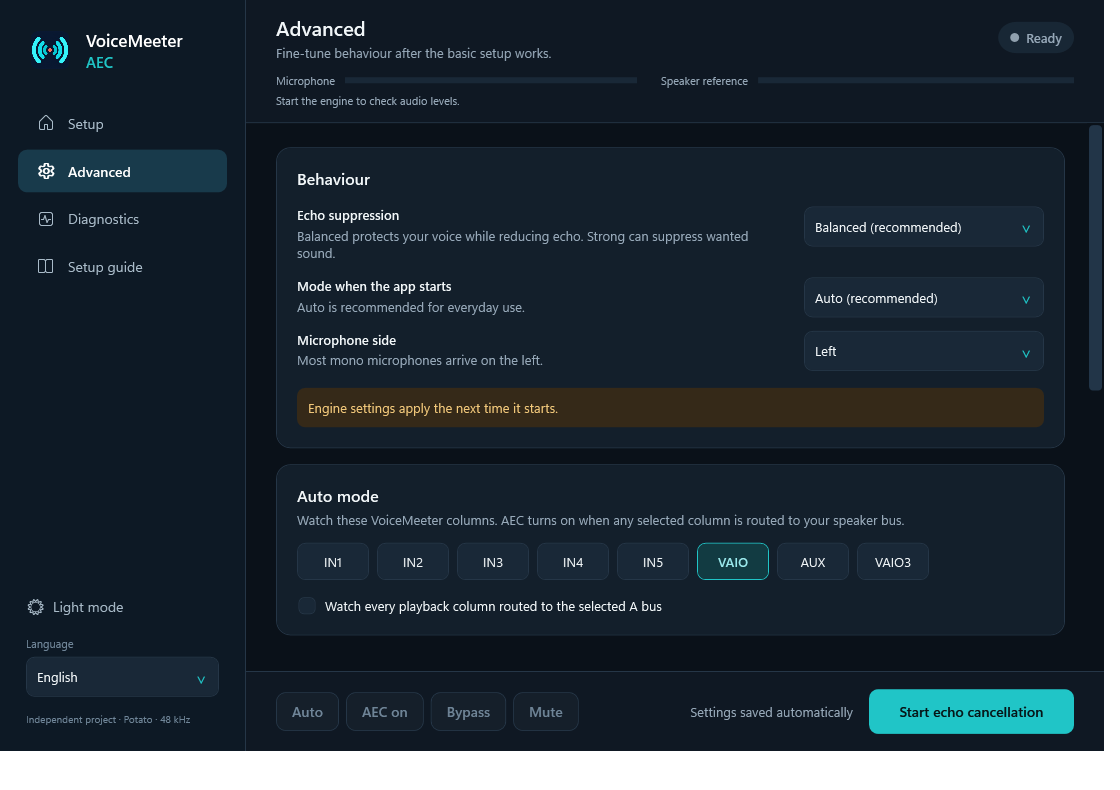
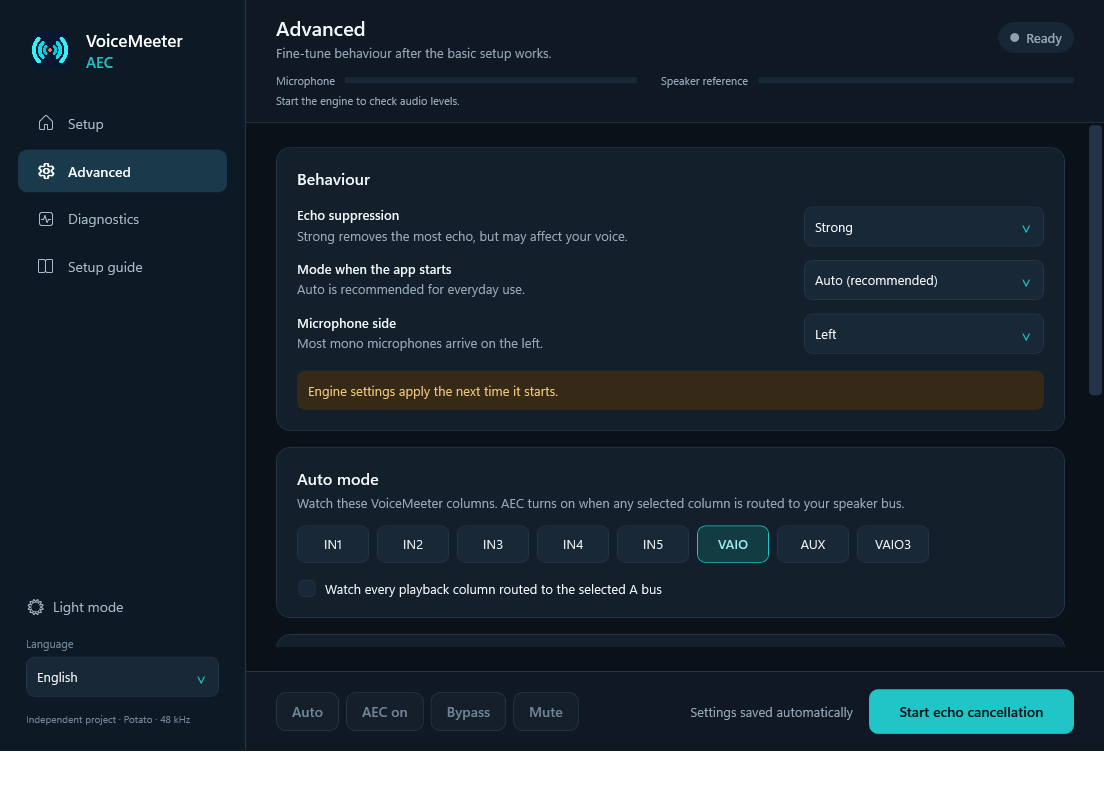
Restore Strong suppression default for 1.2.1

diff --git a/app/MainWindow.xaml b/app/MainWindow.xaml
@@ -240,8 +240,8 @@
                 <Grid Margin="0,17,0,0">
                   <Grid.ColumnDefinitions><ColumnDefinition /><ColumnDefinition Width="240" /></Grid.ColumnDefinitions>
                   <Grid.RowDefinitions><RowDefinition Height="Auto" /><RowDefinition Height="Auto" /><RowDefinition Height="Auto" /></Grid.RowDefinitions>
-                  <StackPanel Margin="0,0,18,16"><TextBlock x:Name="SuppressionLabel" Text="Echo suppression" FontWeight="SemiBold" /><TextBlock x:Name="SuppressionHelp" Text="Balanced protects your voice while reducing echo. Strong can suppress wanted sound." Foreground="{DynamicResource MutedInk}" Margin="0,3,0,0" TextWrapping="Wrap" /></StackPanel>
-                  <ComboBox x:Name="SuppressionBox" Grid.Column="1" Margin="0,0,0,12" VerticalAlignment="Top" SelectedIndex="1" SelectionChanged="SettingChanged"><ComboBoxItem Content="Gentle" Tag="gentle" /><ComboBoxItem Content="Balanced (recommended)" Tag="balanced" /><ComboBoxItem Content="Strong" Tag="strong" /></ComboBox>
+                  <StackPanel Margin="0,0,18,16"><TextBlock x:Name="SuppressionLabel" Text="Echo suppression" FontWeight="SemiBold" /><TextBlock x:Name="SuppressionHelp" Text="Strong removes the most echo, but may affect your voice." Foreground="{DynamicResource MutedInk}" Margin="0,3,0,0" TextWrapping="Wrap" /></StackPanel>
+                  <ComboBox x:Name="SuppressionBox" Grid.Column="1" Margin="0,0,0,12" VerticalAlignment="Top" SelectedIndex="2" SelectionChanged="SettingChanged"><ComboBoxItem Content="Gentle" Tag="gentle" /><ComboBoxItem Content="Balanced" Tag="balanced" /><ComboBoxItem Content="Strong" Tag="strong" /></ComboBox>
                   <StackPanel Grid.Row="1" Margin="0,0,18,16"><TextBlock x:Name="StartModeLabel" Text="Mode when the app starts" FontWeight="SemiBold" /><TextBlock x:Name="StartModeHelp" Text="Auto is recommended for everyday use." Foreground="{DynamicResource MutedInk}" Margin="0,3,0,0" /></StackPanel>
                   <ComboBox x:Name="StartModeBox" Grid.Row="1" Grid.Column="1" Margin="0,0,0,12" VerticalAlignment="Top" SelectedIndex="2" SelectionChanged="SettingChanged"><ComboBoxItem Content="Bypass" Tag="bypass" /><ComboBoxItem Content="AEC always on" Tag="aec" /><ComboBoxItem Content="Auto (recommended)" Tag="auto" /><ComboBoxItem Content="Mute microphone" Tag="mute" /></ComboBox>
                   <StackPanel Grid.Row="2" Margin="0,0,18,0"><TextBlock x:Name="MicSideLabel" Text="Microphone side" FontWeight="SemiBold" /><TextBlock x:Name="MicSideHelp" Text="Most mono microphones arrive on the left." Foreground="{DynamicResource MutedInk}" Margin="0,3,0,0" /></StackPanel>
@@ -293,7 +293,7 @@
                 <Grid.ColumnDefinitions><ColumnDefinition /><ColumnDefinition Width="Auto" /></Grid.ColumnDefinitions>
                 <StackPanel Margin="0,0,24,0">
                   <TextBlock x:Name="UpdatesHeading" Text="Updates" FontSize="16" FontWeight="SemiBold" />
-                  <TextBlock x:Name="UpdateStatusText" Text="Current version 1.2.0" Foreground="{DynamicResource MutedInk}" Margin="0,5,0,11" TextWrapping="Wrap" />
+                  <TextBlock x:Name="UpdateStatusText" Text="Current version 1.2.1" Foreground="{DynamicResource MutedInk}" Margin="0,5,0,11" TextWrapping="Wrap" />
                   <CheckBox x:Name="AutomaticUpdatesBox" Content="Check for updates automatically" Checked="SettingChanged" Unchecked="SettingChanged" />
                   <TextBlock x:Name="AutomaticUpdatesHelp" Text="Checks GitHub Releases once a day. Installation always asks first." Foreground="{DynamicResource MutedInk}" Margin="25,5,0,0" TextWrapping="Wrap" />
                 </StackPanel>

diff --git a/app/MainWindow.xaml.cs b/app/MainWindow.xaml.cs
@@ -415,7 +415,7 @@ public partial class MainWindow : Window
         if (_settings.AutoStrips.Count == 0) _settings.AutoStrips.AddRange(_settings.ReferenceStrips);
         _settings.WatchAllStrips = WatchAllBox.IsChecked == true;
         _settings.MicrophoneSide = SelectedTag(MicSideBox, "left");
-        _settings.Suppression = SelectedTag(SuppressionBox, "balanced");
+        _settings.Suppression = SelectedTag(SuppressionBox, "strong");
         _settings.StartMode = SelectedTag(StartModeBox, "auto");
         _settings.HoldMs = (int)Math.Round(HoldSlider.Value);
         _settings.DelayMs = (int)Math.Round(DelaySlider.Value);
@@ -620,7 +620,7 @@ public partial class MainWindow : Window
         GuideStopRule.Text = T("Before stopping the engine, switch those two PATCH INSERT buttons off.");
         BehaviourHeading.Text = T("Behaviour");
         SuppressionLabel.Text = T("Echo suppression");
-        SuppressionHelp.Text = T("Balanced protects your voice while reducing echo. Strong can suppress wanted sound.");
+        SuppressionHelp.Text = T("Strong removes the most echo, but may affect your voice.");
         StartModeLabel.Text = T("Mode when the app starts");
         StartModeHelp.Text = T("Auto is recommended for everyday use.");
         MicSideLabel.Text = T("Microphone side");
@@ -662,7 +662,7 @@ public partial class MainWindow : Window
 
     private void SetComboLabels()
     {
-        var suppression = new Dictionary<string, string> { ["gentle"] = T("Gentle"), ["balanced"] = T("Balanced (recommended)"), ["strong"] = T("Strong") };
+        var suppression = new Dictionary<string, string> { ["gentle"] = T("Gentle"), ["balanced"] = T("Balanced"), ["strong"] = T("Strong") };
         foreach (ComboBoxItem item in SuppressionBox.Items) item.Content = suppression[item.Tag!.ToString()!];
         var modes = new Dictionary<string, string> { ["bypass"] = "Bypass", ["aec"] = T("AEC always on"), ["auto"] = T("Auto (recommended)"), ["mute"] = T("Mute microphone") };
         foreach (ComboBoxItem item in StartModeBox.Items) item.Content = modes[item.Tag!.ToString()!];
@@ -1006,7 +1006,7 @@ public partial class MainWindow : Window
         if (!upgraded.ReferenceStrips.SequenceEqual([7]) || !multiple.ReferenceStrips.SequenceEqual([6, 7]) ||
             !upgraded.CheckForUpdatesAutomatically || updatesDisabled.CheckForUpdatesAutomatically ||
             upgraded.VoiceMeeterEdition != "auto" || bananaSettings.VoiceMeeterEdition != "banana" ||
-            defaults.Suppression != "balanced" || !defaults.StartEngineWithWindows || startupEngineDisabled.StartEngineWithWindows)
+            defaults.Suppression != "strong" || !defaults.StartEngineWithWindows || startupEngineDisabled.StartEngineWithWindows)
             throw new InvalidOperationException("Saved settings migration is invalid.");
         StartupBox.IsChecked = false;
         UpdateStartupControls();

diff --git a/app/AppSettings.cs b/app/AppSettings.cs
@@ -24,7 +24,7 @@ public sealed class AppSettings
     public List<int> AutoStrips { get; set; } = [6];
     public bool WatchAllStrips { get; set; }
     public string StartMode { get; set; } = "auto";
-    public string Suppression { get; set; } = "balanced";
+    public string Suppression { get; set; } = "strong";
     public int HoldMs { get; set; }
     public int DelayMs { get; set; }
     public bool StartWithWindows { get; set; }
@@ -102,7 +102,7 @@ public sealed class AppSettings
             AutoStrips = strips,
             WatchAllStrips = ReadInt(root, "autoScope", 0) == 1,
             StartMode = mode switch { 0 => "bypass", 1 => "aec", 3 => "mute", _ => "auto" },
-            Suppression = ReadString(root, "suppression", "balanced"),
+            Suppression = ReadString(root, "suppression", "strong"),
             HoldMs = ReadInt(root, "hold", 0),
             DelayMs = ReadInt(root, "delay", 0),
             StartWithWindows = legacyStartupExists,
@@ -144,7 +144,7 @@ public sealed class AppSettings
         AutoStrips = (AutoStrips ?? []).Where(value => value is >= 1 and <= 8).Distinct().Order().ToList();
         if (AutoStrips.Count == 0) AutoStrips.AddRange(ReferenceStrips);
         if (StartMode is not ("bypass" or "aec" or "auto" or "mute")) StartMode = "auto";
-        if (Suppression is not ("gentle" or "balanced" or "strong")) Suppression = "balanced";
+        if (Suppression is not ("gentle" or "balanced" or "strong")) Suppression = "strong";
         HoldMs = Math.Clamp(HoldMs, 0, 250);
         DelayMs = Math.Clamp(DelayMs, 0, 500);
         if (LastUpdateCheckUtc > DateTime.UtcNow.AddDays(1)) LastUpdateCheckUtc = default;

diff --git a/src/main.rs b/src/main.rs
@@ -147,7 +147,7 @@ Does not change PATCH settings. Read GUIDE-EN.md before --run."
         (0, 0, 0, 3, false, 2);
     let mut auto_strips = None;
     let mut edition = Edition::Potato;
-    let mut suppression = ResidualSuppression::Balanced;
+    let mut suppression = ResidualSuppression::Standard;
     let mut i = 0;
     while i < args.len() {
         match args[i].as_str() {

diff --git a/VALIDATION-EN.md b/VALIDATION-EN.md
@@ -1,6 +1,6 @@
-# VoiceMeeter AEC 1.2.0 — validation
+# VoiceMeeter AEC 1.2.1 — validation
 
-[Français](VALIDATION.md) · Version 1.2.0
+[Français](VALIDATION.md) · Version 1.2.1
 
 The automated checks pass for Gentle and Balanced. **Strong deliberately exposes the original, more aggressive suppressor and fails some near-end preservation checks.** Passing synthetic tests does not establish transparent speech or production stability.
 
@@ -11,7 +11,7 @@ The automated checks pass for Gentle and Balanced. **Strong deliberately exposes
 - The real C++ callback calls the Rust engine through FFI for 300 simulated blocks; framing, immediate mute, channel preservation and invalid-index detection pass.
 - Native event checks cover reset, sample-rate change, latency-only notification, cancellation priority and aggregation of active/inactive/unknown Auto routes.
 - A hidden child process receives M/B/A/T/Q through the same anonymous stdin pipe used by the tray. It verifies the actual native control handling, returns diagnostic output and exits gracefully without opening an audio device.
-- English/French desktop checks cover both mixer layouts and channel maps, edition selection, Auto/Balanced defaults, settings migration, mode highlighting, locked audio controls, theme resources, update metadata/checksums, safe archive paths and copy rollback.
+- English/French desktop checks cover both mixer layouts and channel maps, edition selection, Auto/Strong defaults, settings migration, mode highlighting, locked audio controls, theme resources, update metadata/checksums, safe archive paths and copy rollback.
 - New host checks feed actual status records through the parser, reject pre-callback startup messages, exercise native exit code 14 and retry eligibility through a real child process, verify latest requested mode preservation, and rotate small test logs without touching user logs/settings.
 - Update argument round trips preserve all four modes; old updater arguments resume muted. Native reference checks cover Banana without GainLayer, Potato bus gains, muted routes, relative weights, channel mapping, simultaneous loud sources and a smooth transition to zero reference.
 - Release builds remap local compiler paths; public archives are checked for developer account paths, saved settings, shortcuts, logs and build directories.
@@ -40,7 +40,7 @@ Driver reset/resync or a two-second callback stall permits two retries (250 ms, 
 
 Sign-in startup waits for VoiceMeeter and retries selected initial driver failures for up to 90 seconds. This is separate from native recovery. Settings and shortcut tests use an isolated directory; the development machine's startup registration is not modified. The process wrapper uses CreateNoWindow and redirected stdin/stdout/stderr. Normal startup has no console; a direct CLI launch retains one. Diagnostics rotate at approximately 2 MiB plus one previous segment and contain no recorded audio.
 
-The 1.2.0 build and desktop checks open no audio driver and do not change Windows startup registration. Meter telemetry is emitted every 100 ms and excluded from disk logs. Route weights are polled every 200 ms and faded over 10 ms inside the callback using a bounded atomic snapshot. The speaker-reference mix follows routing and gains; downstream EQ, panning, surround downmix and nonlinear speaker effects are not reconstructed. These integration checks do not constitute live acoustic validation of the new reference weighting.
+The 1.2.1 build and desktop checks open no audio driver and do not change Windows startup registration. Meter telemetry is emitted every 100 ms and excluded from disk logs. Route weights are polled every 200 ms and faded over 10 ms inside the callback using a bounded atomic snapshot. The speaker-reference mix follows routing and gains; downstream EQ, panning, surround downmix and nonlinear speaker effects are not reconstructed. These integration checks do not constitute live acoustic validation of the new reference weighting.
 
 ## Remaining real-world validation
 

diff --git a/VALIDATION.md b/VALIDATION.md
@@ -1,6 +1,6 @@
-# VoiceMeeter AEC 1.2.0 — validation
+# VoiceMeeter AEC 1.2.1 — validation
 
-[English](VALIDATION-EN.md) · Version 1.2.0
+[English](VALIDATION-EN.md) · Version 1.2.1
 
 Les contrôles passent pour Douce et Équilibrée. **Forte expose la suppression d'origine, plus agressive, et échoue à certains critères de préservation du signal proche.** Des tests synthétiques réussis ne prouvent ni une voix transparente ni une stabilité de production.
 
@@ -11,14 +11,14 @@ Les contrôles passent pour Douce et Équilibrée. **Forte expose la suppression
 - Callback C++ réel vers moteur Rust via FFI, sur 300 blocs simulés : framing, silence immédiat, préservation et détection d'indice invalide.
 - Événements natifs : reset, changement de fréquence, notification de latence seule, priorité de l'arrêt et combinaison des routes Auto actives/inactives/inconnues.
 - Processus caché recevant M/B/A/T/Q par le même pipe que le menu de notification. Contrôles natifs réels, diagnostics et arrêt propre vérifiés, sans périphérique audio.
-- Interface anglaise/française : dispositions et canaux, édition, valeurs par défaut Auto/Équilibrée, migration, modes sélectionnés, verrouillage audio, thèmes, métadonnées de mise à jour, sommes de contrôle, chemins sûrs et restauration après échec de copie.
+- Interface anglaise/française : dispositions et canaux, édition, valeurs par défaut Auto/Forte, migration, modes sélectionnés, verrouillage audio, thèmes, métadonnées de mise à jour, sommes de contrôle, chemins sûrs et restauration après échec de copie.
 - Nouveaux tests du lanceur : analyse des états réels, refus des messages prématurés de démarrage, code natif 14 et éligibilité à la reprise via un processus enfant, conservation du dernier mode demandé et rotation de journaux temporaires.
 - Transmission des quatre modes lors des mises à jour ; ancien lanceur sans mode repris en Silence. Tests natifs de Banana sans GainLayer, gains Potato, routes muettes, pondérations relatives, correspondance des canaux, sources fortes simultanées et fondu vers une référence nulle.
 - Les chemins locaux du compilateur sont remappés ; les archives publiques sont contrôlées pour exclure comptes locaux, réglages, raccourcis, journaux personnels et dossiers de compilation.
 
 ## Mesures audio
 
-La compilation et les tests 1.2.0 n'ouvrent aucun pilote audio et ne modifient pas le démarrage Windows. Les niveaux sont transmis toutes les 100 ms sans être stockés dans le journal. Le routage est lu toutes les 200 ms, puis les pondérations suivent un fondu de 10 ms. Le mix suit les routes et les gains ; l'EQ, le panoramique, le downmix surround et les effets non linéaires ne sont pas reconstruits. La pondération n'a pas encore fait l'objet d'une validation acoustique réelle.
+La compilation et les tests 1.2.1 n'ouvrent aucun pilote audio et ne modifient pas le démarrage Windows. Les niveaux sont transmis toutes les 100 ms sans être stockés dans le journal. Le routage est lu toutes les 200 ms, puis les pondérations suivent un fondu de 10 ms. Le mix suit les routes et les gains ; l'EQ, le panoramique, le downmix surround et les effets non linéaires ne sont pas reconstruits. La pondération n'a pas encore fait l'objet d'une validation acoustique réelle.
 
 Chaque scénario déterministe dure 48 secondes à 48 kHz : deux références indépendantes de bruit coloré, trois trajets d'écho filtrés, signal proche entre 20 et 30 secondes, délai acoustique passant de 50 à 90 ms à 30 secondes, référence retirée à 46 secondes. Le signal proche utilise des harmoniques modulées ou du bruit coloré indépendant, pas de voix humaine enregistrée. D'autres graines utilisent des niveaux proches à 0,5x et 1,5x.
 

diff --git a/PUBLISHING.md b/PUBLISHING.md
@@ -4,7 +4,7 @@ The Source archive is the repository content. Extract it and commit the files in
 
 `VoiceMeeter-AEC-Setup.exe` is the recommended Windows download. It performs a per-user installation without elevation, adds a Start menu shortcut and creates a standard uninstall entry. The Windows-x64 archive remains the portable package and the payload used by automatic updates. It contains the self-contained desktop app, the audio engine and grouped licence notices. The separate Source archive contains the corresponding source, installer definition and vendored Rust dependencies. Attach all three packages and their SHA-256 files to the GitHub release. Do not commit executable build outputs to the source repository.
 
-Run Build.cmd on Windows x64 with Rust, Visual C++, Windows SDK and the .NET 8 SDK or newer installed. Install Inno Setup 7 before packaging, or provide its compiler path through `-InstallerCompiler` or `INNO_SETUP_COMPILER`. The build remaps local source paths out of the native engine, publishes a self-contained x64 desktop app, runs unit and synthetic audio checks for Gentle/Balanced, validates the bilingual interface, and renders the README screenshot without opening audio. Balanced is the app default for new setups. Strong remains optional, has documented near-end preservation failures and is not included in the passing quality gate.
+Run Build.cmd on Windows x64 with Rust, Visual C++, Windows SDK and the .NET 8 SDK or newer installed. Install Inno Setup 7 before packaging, or provide its compiler path through `-InstallerCompiler` or `INNO_SETUP_COMPILER`. The build remaps local source paths out of the native engine, publishes a self-contained x64 desktop app, runs unit and synthetic audio checks for Gentle/Balanced, validates the bilingual interface, and renders the README screenshot without opening audio. Strong is the app default for new setups. It has documented near-end preservation failures and is not included in the passing quality gate.
 
 Run `powershell.exe -NoProfile -ExecutionPolicy Bypass -File .\Package.ps1` after a successful build. It creates the installer plus fresh Source and Windows-x64 archives under `dist`, with SHA-256 files. Packaging uses explicit file lists and never reads the user's saved application settings. Existing packages are not overwritten; use a new output directory when repackaging. Keep the generated `VoiceMeeter-AEC-{version}-Windows-x64.zip` name and attach its `.sha256` file to the same stable GitHub release: the in-app updater requires that pair. `-SkipInstaller` is available for local portable-only builds.
 

diff --git a/patches/README.md b/patches/README.md
@@ -7,7 +7,7 @@ Local changes made 2026-09-10:
 - `src/config.rs`: add `EchoCanceller::residual_suppression` with `Standard` (upstream default), `Balanced`, and `Gentle` profiles. Version 0.1.3 replaces the earlier `conservative_suppression` boolean.
 - `src/audio_processing_impl.rs`: Gentle uses near-end tuning for both normal and near-end residual suppression, with echo-to-near-end transparent/suppress thresholds 3/6 in LF and HF. Balanced uses 2.25/4.5. Standard retains upstream tuning, exposed as Strong in the application. Apply consistently to mono and detected stereo. Apply the requested transparent-mode setting to stereo too.
 
-VoiceMeeter AEC 1.2.0 defaults to Balanced for new app settings and CLI streams; saved profiles remain unchanged. Gentle preserves 0.1.2 behavior and remains the default for the legacy no-profile synthetic self-test. Profiles apply on engine start and survive driver recovery. The adaptive echo cancellation filter remains active; this is not dry bypass or mixing in the reference. The less aggressive residual suppressor may leave more nonlinear residual echo in situations not covered by the synthetic suite. Thresholds are an experimental application-specific tradeoff, not upstream recommendations.
+VoiceMeeter AEC 1.2.1 defaults to Strong for new app settings and CLI streams; saved profiles remain unchanged. Gentle preserves 0.1.2 behavior and remains the default for the legacy no-profile synthetic self-test. Profiles apply on engine start and survive driver recovery. The adaptive echo cancellation filter remains active; this is not dry bypass or mixing in the reference. The less aggressive residual suppressor may leave more nonlinear residual echo in situations not covered by the synthetic suite. Thresholds are an experimental application-specific tradeoff, not upstream recommendations.
 
 The original stationary stress changes from gain 0.119/correlation 0.390/error improvement -1.77 dB to approximately 0.773/0.872/+3.75 dB. The original pass criteria are unchanged. Additional deterministic seeds and half/1.5x near-end levels pass, but real speech and acoustics remain unverified.
 

diff --git a/GUIDE-FR.md b/GUIDE-FR.md
@@ -1,6 +1,6 @@
 # VoiceMeeter AEC — configuration Windows x64
 
-[English](GUIDE-EN.md) · Version 1.2.0 · Windows x64 · VoiceMeeter Banana ou Potato
+[English](GUIDE-EN.md) · Version 1.2.1 · Windows x64 · VoiceMeeter Banana ou Potato
 
 VoiceMeeter AEC atténue les sons des enceintes repris par le micro. Il utilise le pilote **VoiceMeeter Banana ou Potato Insert Virtual ASIO** correspondant, avant les effets de piste. VoiceMeeter garde le contrôle du matériel. L'application ne modifie ni les routes, ni les PATCH INSERT, ni les périphériques Windows par défaut.
 
@@ -68,8 +68,8 @@ AEC manuel, Bypass et Silence remplacent Auto jusqu'à ce qu'on le sélectionne 
 | Réglage | Effet |
 |---|---|
 | Douce | Suppression moins agressive qui préserve le mieux la voix proche dans les tests synthétiques. |
-| Équilibrée | Réglage recommandé par défaut ; suppression modérée qui préserve mieux les sons utiles. |
-| Forte | Suppression d’origine optionnelle qui peut fortement atténuer la voix pendant les superpositions difficiles. À tester avant adoption. |
+| Équilibrée | Suppression modérée qui préserve mieux les sons utiles dans les tests synthétiques. |
+| Forte | Réglage par défaut des nouvelles configurations ; suppression d’origine qui peut fortement atténuer la voix pendant les superpositions difficiles. À tester avant adoption. |
 | Maintien micro | Ajoute réellement 0–250 ms de retard au micro. Garder normalement 0. |
 | Estimation AEC | Indication de délai distincte, 0–500 ms. Commencer à 0 ; ce n'est pas un autre tampon. |
 

diff --git a/GUIDE-EN.md b/GUIDE-EN.md
@@ -1,6 +1,6 @@
 # VoiceMeeter AEC — Windows x64 setup
 
-[Français](GUIDE-FR.md) · Version 1.2.0 · Windows x64 · VoiceMeeter Banana or Potato
+[Français](GUIDE-FR.md) · Version 1.2.1 · Windows x64 · VoiceMeeter Banana or Potato
 
 VoiceMeeter AEC attenuates speaker playback picked up by a microphone. It processes the microphone through the matching **VoiceMeeter Banana or Potato Insert Virtual ASIO** driver, before VoiceMeeter strip effects. VoiceMeeter retains control of the hardware. The app does not change routes, patch settings or Windows default devices.
 
@@ -68,8 +68,8 @@ Tray AEC, Bypass and Mute override Auto; choose Auto again to resume. Live contr
 | Setting | Effect |
 |---|---|
 | Gentle | Less aggressive suppression that best preserves near-end voice in synthetic tests. |
-| Balanced | Recommended default for new setups; moderate suppression with better preservation of wanted sound. |
-| Strong | Optional original upstream suppression that can heavily attenuate your voice in difficult overlap. Listen before adopting it. |
+| Balanced | Moderate suppression with better preservation of wanted sound in synthetic tests. |
+| Strong | Default for new setups; original upstream suppression that can heavily attenuate your voice in difficult overlap. Listen before adopting it. |
 | Microphone hold | Adds real microphone delay, 0–250 ms. Normally leave at 0. |
 | AEC delay estimate | A separate timing hint, 0–500 ms. Start at 0; it is not another delay buffer. |
 

diff --git a/README.md b/README.md
@@ -62,7 +62,7 @@ The app intentionally reads VoiceMeeter routing without changing it. This protec
 | Microphone source | Banana IN1–IN3 or Potato IN1–IN5, left or right |
 | Playback reference | One or more strips; VAIO and AUX are common choices, plus VAIO3 on Potato |
 | AEC modes | Auto, always on, bypass, mute |
-| Suppression | Balanced by default for new setups; Gentle and Strong remain available |
+| Suppression | Strong by default for new setups; Gentle and Balanced remain available |
 | Startup | Optional Windows sign-in launch, with a separate automatic engine-start toggle |
 
 The reference must contain all audio played by your speakers and exclude the microphone. Select every relevant playback column; the engine combines their stereo pairs before AEC processing. See [Reference setup](GUIDE-EN.md#reference-the-sound-to-cancel) for details.

diff --git a/CHANGELOG.md b/CHANGELOG.md
@@ -1,5 +1,11 @@
 # Changelog
 
+## 1.2.1 — restore Strong as the default
+
+- Restore Strong as the default for new, missing or invalid suppression settings and CLI streams. Preserve explicitly saved Gentle, Balanced and Strong choices.
+- Update the interface and setup guides to match the default. Keep all 1.2.0 reliability, reference-mixing and usability improvements.
+- Strong's documented synthetic near-end preservation limitations and the Gentle/Balanced quality checks are unchanged.
+
 ## 1.2.0 — reliable startup, safer updates and clearer audio feedback
 
 - Default new and missing suppression settings to Balanced; preserve explicitly saved profiles. Strong remains optional and fails three synthetic near-end preservation checks.
